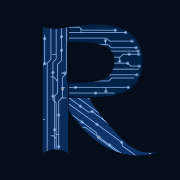
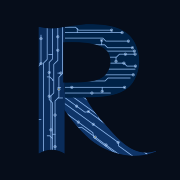
fix(brand): byte-match public Circuit-R to the kit master
Replace favicon.svg and revealui-mark.svg with the locked transparent kit master (sha256 a9403150, translate -310). Raster favicons stay true alpha. The navy plate stays on apple-touch-icon.png only.

diff --git a/app/lib/__tests__/public-copy.test.ts b/app/lib/__tests__/public-copy.test.ts
@@ -1,3 +1,4 @@
+import { createHash } from 'node:crypto';
 import { existsSync, readdirSync, readFileSync, statSync } from 'node:fs';
 import path from 'node:path';
 import { fileURLToPath } from 'node:url';
@@ -321,9 +322,12 @@ describe('public copy gates', () => {
     expect(pathCount).toBeGreaterThanOrEqual(70);
     expect(viaCount).toBeGreaterThanOrEqual(50);
     expect(mark).toContain('Q207,159');
-    // revealui test #2787 / f4ee0bac: optically centered v2 Circuit-R.
-    expect(mark).toContain('translate(256,256) scale(1.06) translate(-300,-320)');
+    // Locked kit master: true alpha, translate(-310,-320). sha256 a9403150…
+    expect(mark).toContain('translate(256,256) scale(1.06) translate(-310,-320)');
+    expect(mark).not.toContain('translate(-300');
     expect(mark).not.toContain('translate(-330');
+    expect(mark).not.toContain('<rect');
+    expect(mark).not.toContain('#060d1a');
     expect(mark).toContain('mask="url(#cm)"');
     expect(mark).toContain('maskUnits="userSpaceOnUse"');
     expect(mark).toContain('#0a2c5a');
@@ -341,6 +345,9 @@ describe('public copy gates', () => {
     expect(mark).not.toContain('fill="#003d94"');
     expect(mark).not.toContain('rx="22"');
     expect(mark).toBe(favicon);
+    expect(createHash('sha256').update(mark).digest('hex')).toBe(
[1 lines of base64/hex data omitted]
+    );
     expect(nav).toContain('/revealui-mark.svg');
     expect(nav).toContain('CIRCUIT_R_NAV_PX = 48');
     expect(nav).toContain('overflow-hidden');
